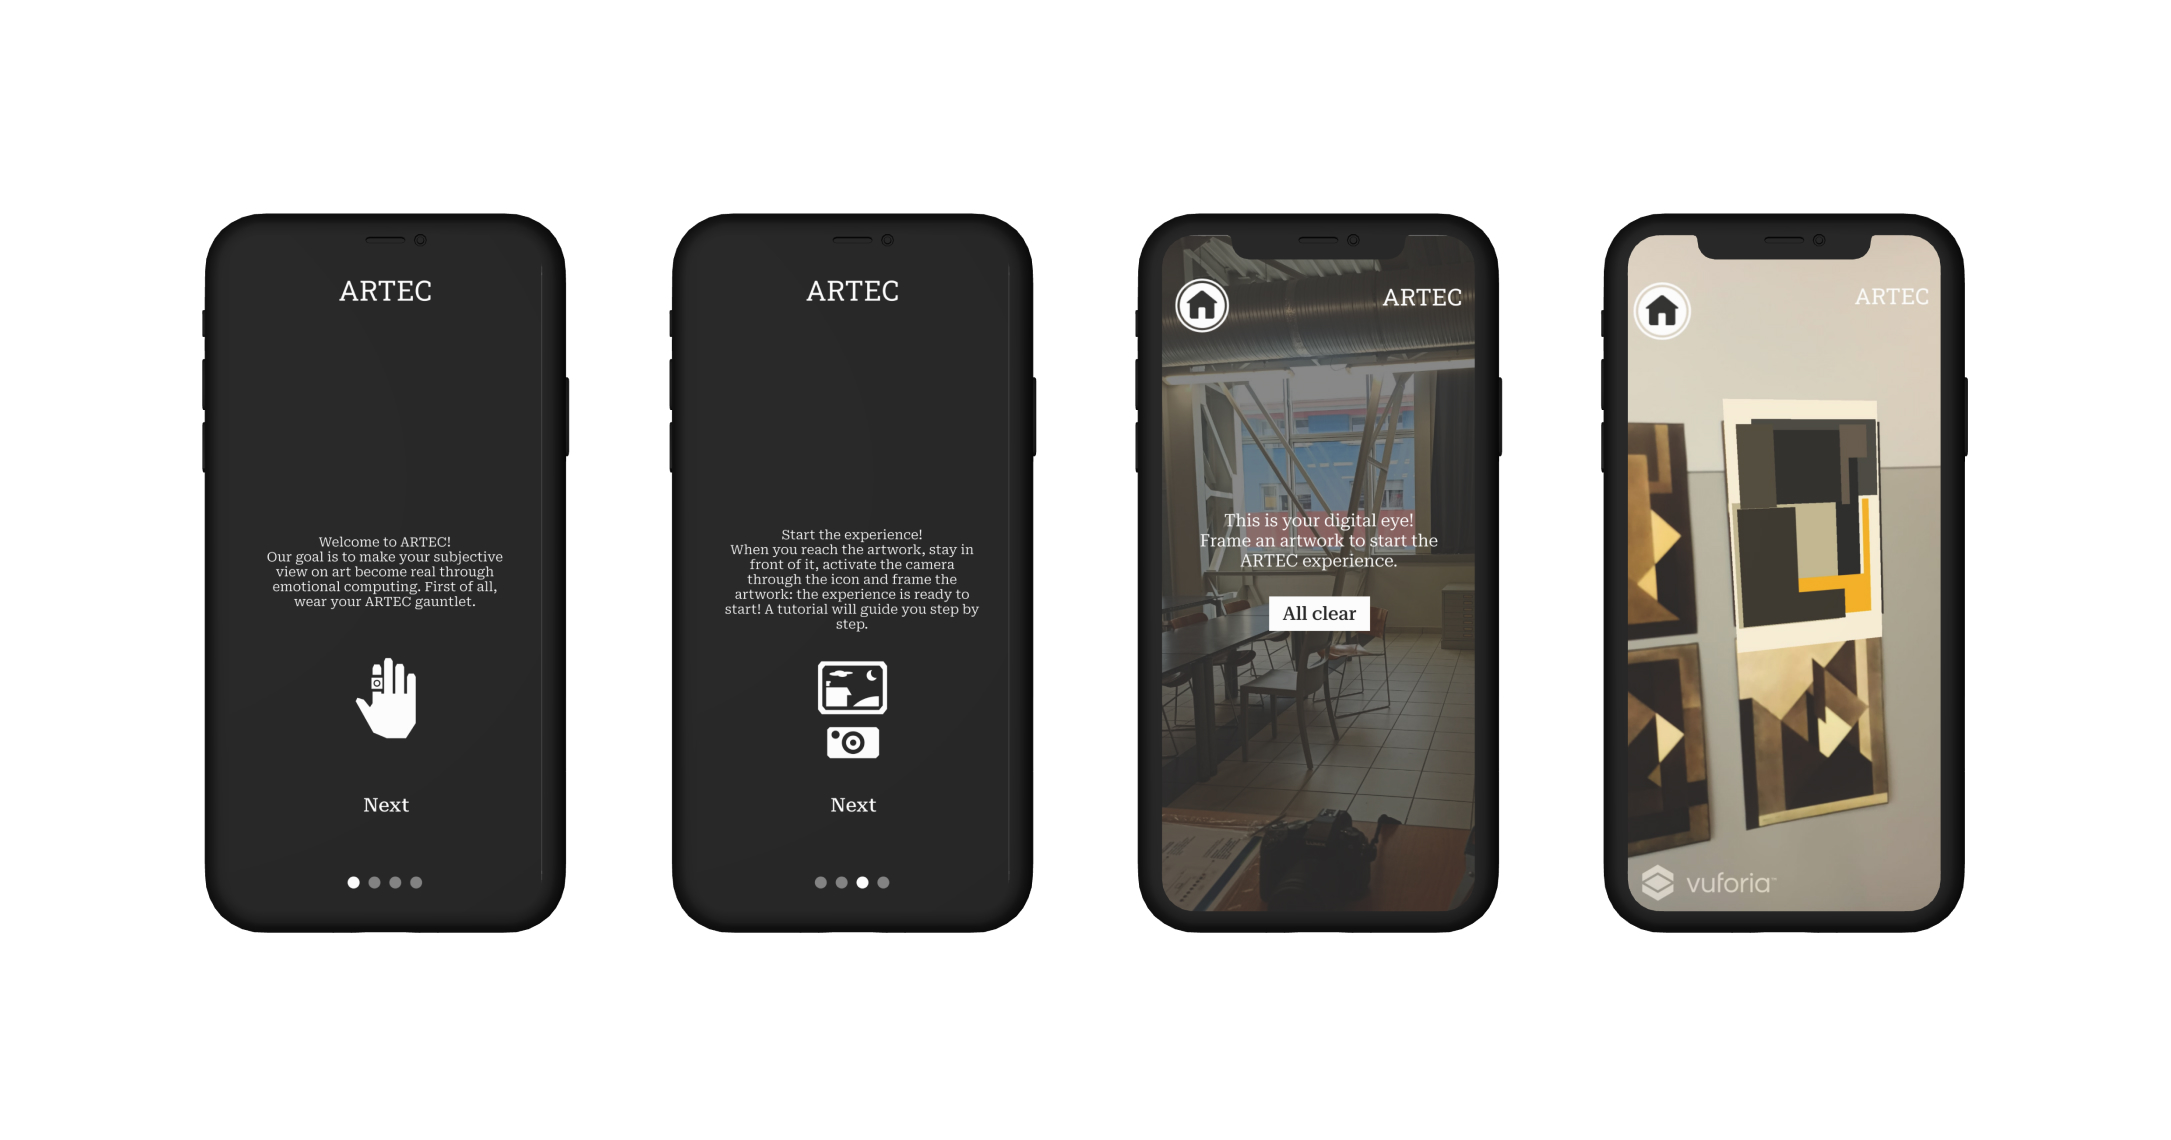
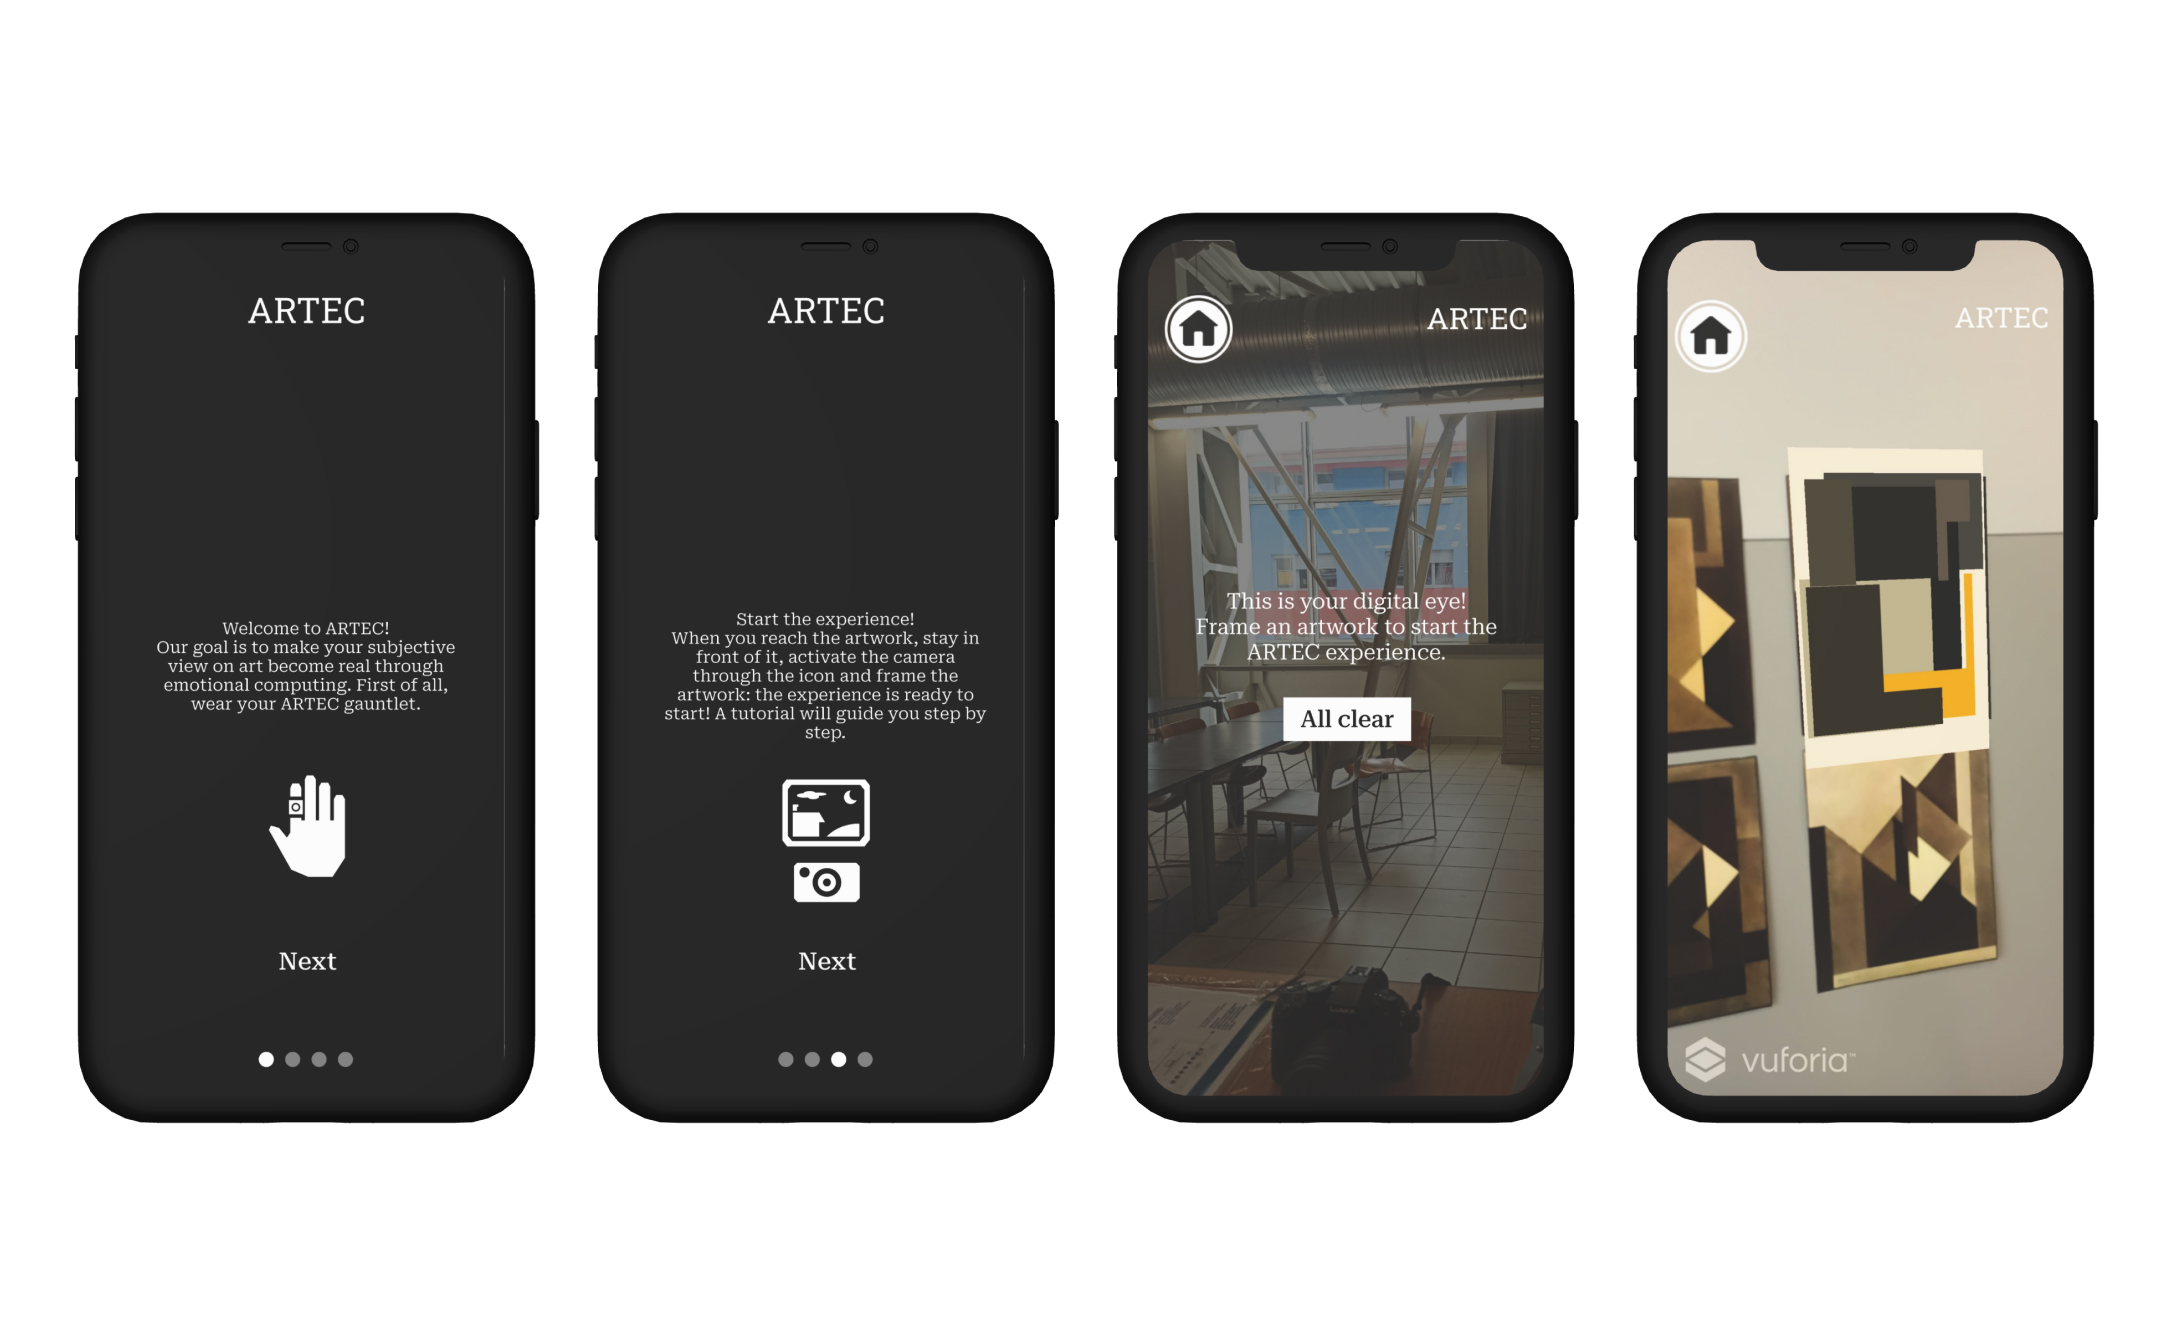
add images

diff --git a/src/content/projects/artec.md b/src/content/projects/artec.md
@@ -42,7 +42,7 @@ We were tasked to find a novelty way to put emotion recognition models in art ex
 
 <div class="image">
 
-![testing](../../assets/artec-testing.jpg)
+![testing|400](../../assets/artec-testing.jpg)
 
 </div>
 
@@ -56,6 +56,9 @@ The emotion caught by the camera would then be compared with the BPM levels read
 </div>
 
 
+The rest of the AR app was built with the Unity engine using [Vuforia](https://developer.vuforia.com/home), which we set on 4 paintings that are present in the Museo del 900 collection in Milano.
+
+
 <div class="image">
 
 ![artec-ui](../../assets/artec-ui.jpg)
@@ -63,13 +66,12 @@ The emotion caught by the camera would then be compared with the BPM levels read
 </div>
 
 
-The rest of the AR app was built with the Unity engine using [Vuforia](https://developer.vuforia.com/home), which we set on 4 paintings that are present in the Museo del 900 collection in Milano.
-
 For each painting, we thought of ways that we could play with them without overcoming too much of the original intent of the painting.
+
 
 <div class="image">
 
-![paintings](../../assets/hacko-heroshot.jpg)
+![esempio quadri](../../assets/artec-painting.gif)
 
 </div>
 
